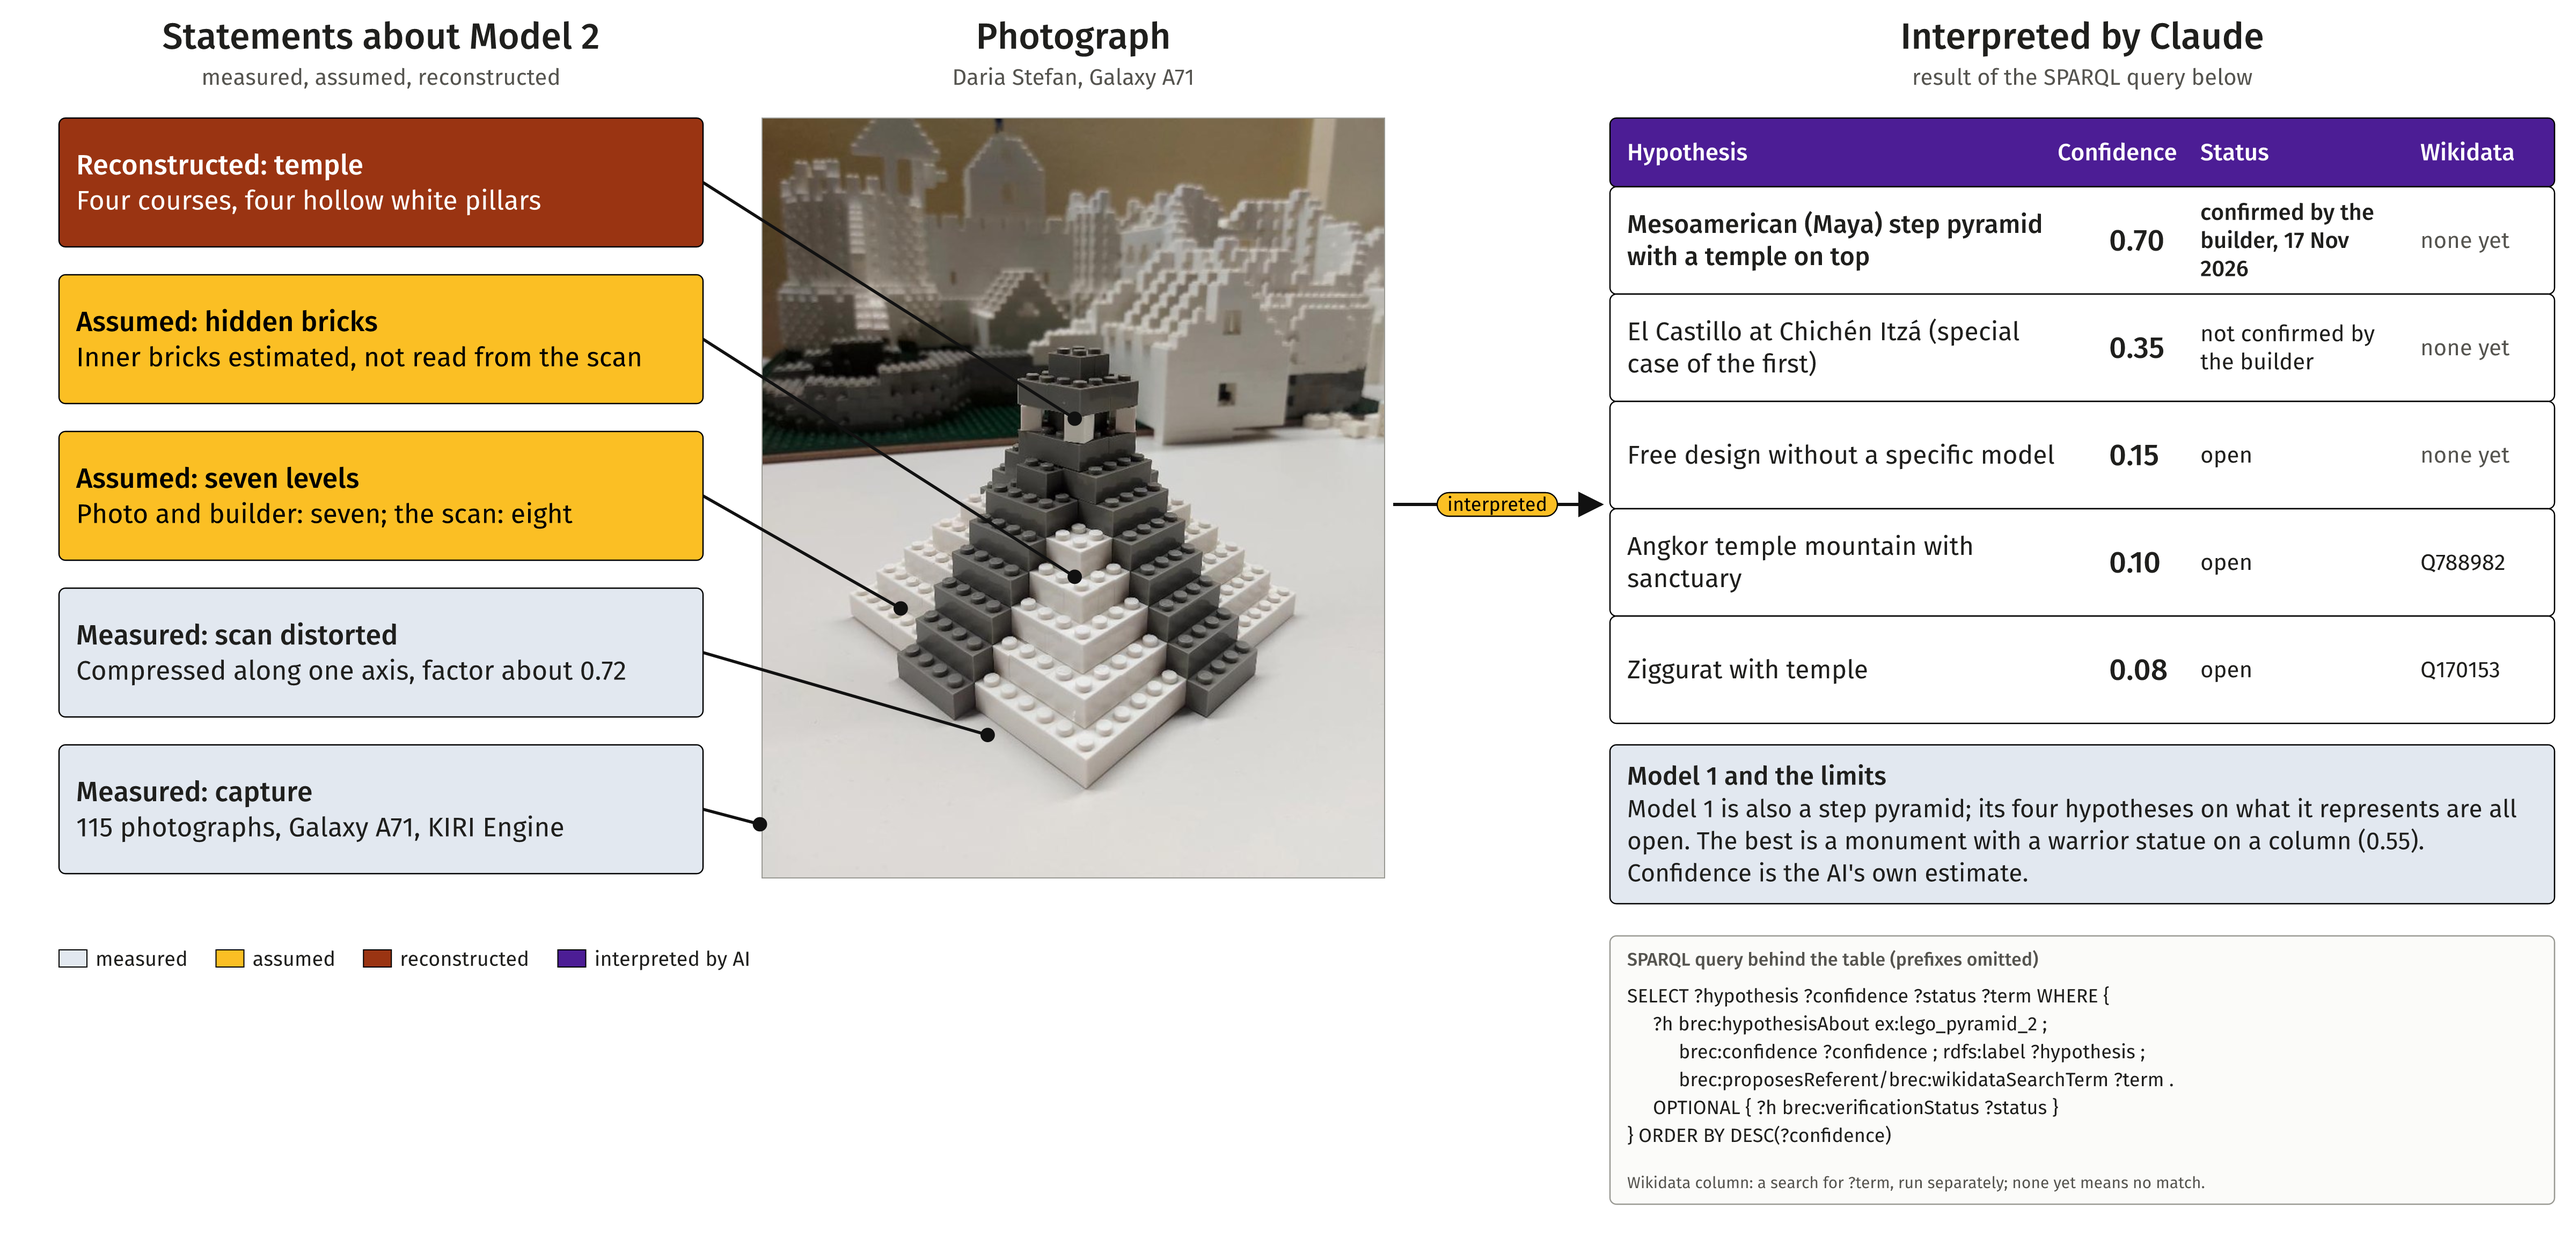
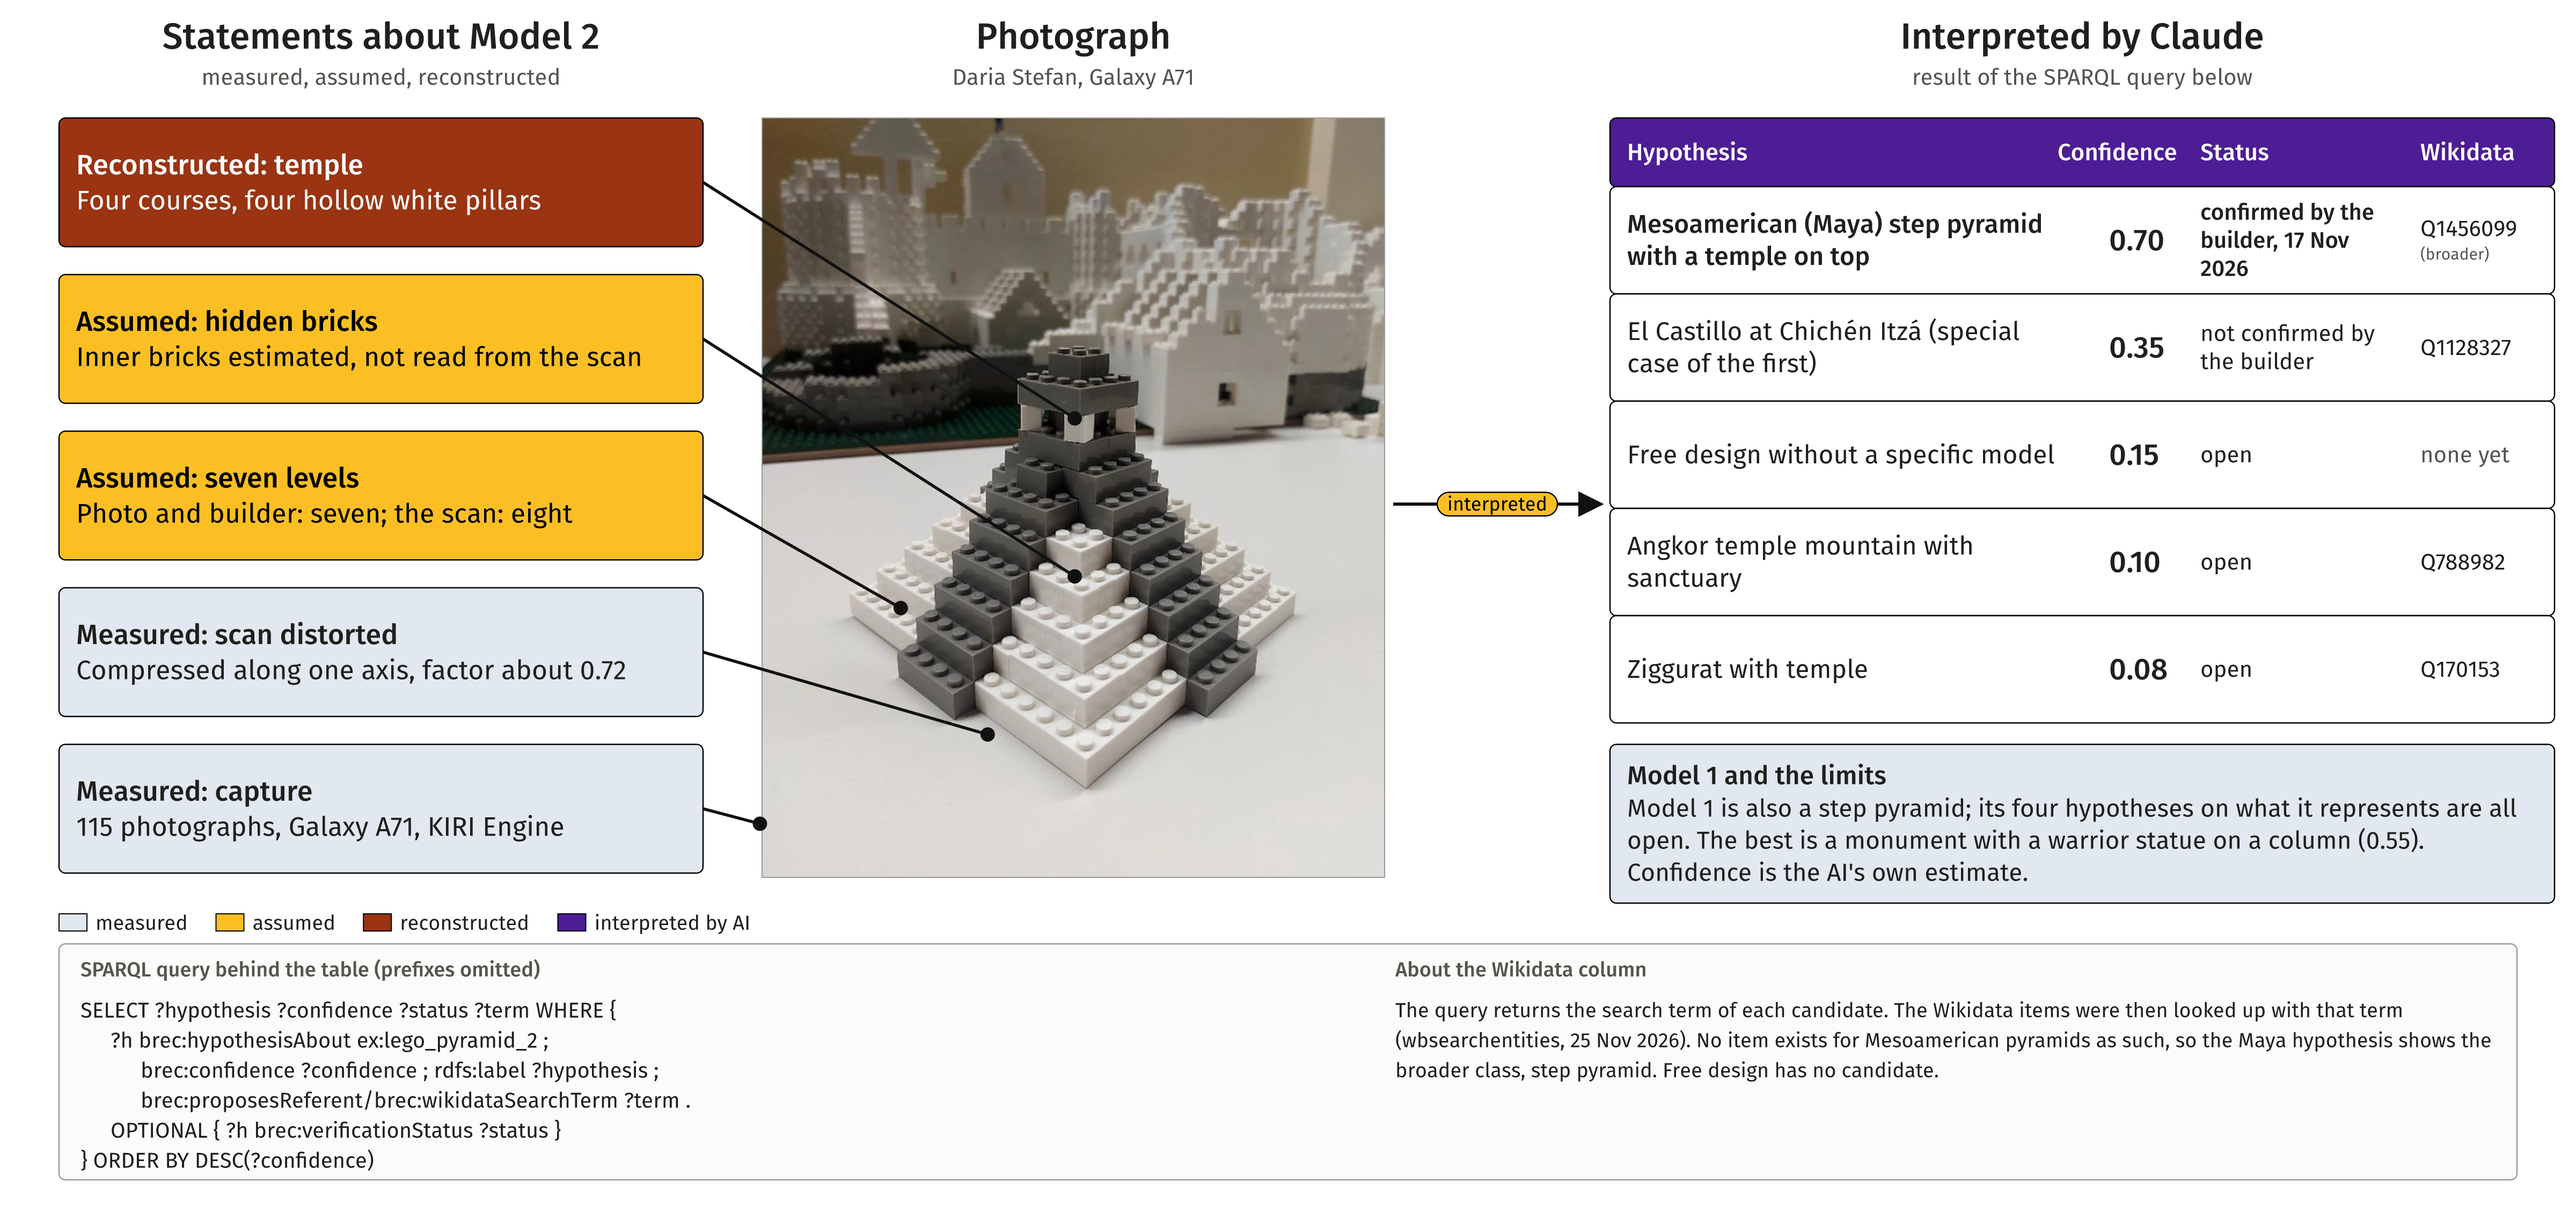
Poster Fig. 3: Wikidata items for the hypotheses and the query as a strip below the figure
Q1128327 for El Castillo, Q1456099 (broader step pyramid) for the Maya hypothesis, Q788982 and Q170153 as before; free design has no candidate.

Claude-Session: https://claude.ai/code/session_0145BdeBMFFGobmaZDy6Deu8

diff --git a/dh2027/brec_poster/figures.py b/dh2027/brec_poster/figures.py
@@ -217,7 +217,7 @@ def fig2():
 
 # ---------------------------------------------------------------- Fig. 3: Model 2
 def fig3():
-    W, H = 2400, 1160
+    W, H = 2400, 1130
     svg = Svg(W, H)
     P0, PY, PWD, PHT = 710, 110, 580, 708
     LW = 600
@@ -244,8 +244,8 @@ def fig3():
         svg.block(55, y, LW, 120, [line], fill, head=head, size=26, pad=16)
         svg.arrow([(55 + LW, y + 60), (target[0] - 2, target[1])], head=False, dot=True, sw=2.8)
 
-    rows = [("Mesoamerican (Maya) step pyramid with a temple on top", "0.70", "confirmed by the builder, 17 Nov 2026", "none yet"),
-            ("El Castillo at Chichén Itzá (special case of the first)", "0.35", "not confirmed by the builder", "none yet"),
+    rows = [("Mesoamerican (Maya) step pyramid with a temple on top", "0.70", "confirmed by the builder, 17 Nov 2026", "Q1456099|(broader)"),
+            ("El Castillo at Chichén Itzá (special case of the first)", "0.35", "not confirmed by the builder", "Q1128327"),
             ("Free design without a specific model", "0.15", "open", "none yet"),
             ("Angkor temple mountain with sanctuary", "0.10", "open", "Q788982"),
             ("Ziggurat with temple", "0.08", "open", "Q170153")]
@@ -266,7 +266,12 @@ def fig3():
         mtext(cx[0], cy, wrap(h, 24, 420, i == 0), 24, i == 0, maxw=430)
         mtext(cx[1] + 20, cy, [c], 28, True, maxw=90)
         mtext(cx[2], cy, wrap(st, 21, 190, i == 0), 21, i == 0, maxw=200)
-        mtext(cx[3], cy, [w], 21, False, MUTED if w == "none yet" else INK, maxw=100)
+        ws = w.split("|")
+        if len(ws) > 1:
+            svg.text(cx[3], cy - 11, ws[0], 21, False, INK, maxw=110)
+            svg.text(cx[3], cy + 13, ws[1], 15, False, MUTED, maxw=110)
+        else:
+            svg.text(cx[3], cy, w, 21, False, MUTED if w == "none yet" else INK, maxw=110)
     my = 110 + HH + 5 * RH + 20
     svg.block(TX, my, TW_, 842 - my, ["Model 1 is also a step pyramid; its four hypotheses on what it represents are all open. "
                                       "The best is a monument with a warrior statue on a column (0.55). Confidence is the AI's own estimate."],
@@ -274,9 +279,9 @@ def fig3():
     a, b = (P0 + PWD + 8, 470), (TX - 8, 470)
     svg.arrow([a, b], sw=3)
     svg.chip((a[0] + b[0]) / 2, 470, "interpreted", 18)
-    qy, qh = 872, 250
-    svg.rect(TX, qy, TW_, qh, "#fbfbf9", stroke="#9a9a94", name="query")
-    svg.text(TX + 16, qy + 22, "SPARQL query behind the table (prefixes omitted)", 17, True, MUTED, maxw=TW_ - 32)
+    qy, qh = 880, 220
+    svg.rect(55, qy, W - 110, qh, "#fbfbf9", stroke="#9a9a94", name="query")
+    svg.text(75, qy + 24, "SPARQL query behind the table (prefixes omitted)", 19, True, MUTED, maxw=1100)
     code = [(0, "SELECT ?hypothesis ?confidence ?status ?term WHERE {"),
             (1, "?h brec:hypothesisAbout ex:lego_pyramid_2 ;"),
             (2, "brec:confidence ?confidence ; rdfs:label ?hypothesis ;"),
@@ -284,9 +289,14 @@ def fig3():
             (1, "OPTIONAL { ?h brec:verificationStatus ?status }"),
             (0, "} ORDER BY DESC(?confidence)")]
     for j, (ind, t) in enumerate(code):
-        svg.text(TX + 16 + ind * 24, qy + 56 + j * 26, t, 18, False, INK, maxw=TW_ - 40 - ind * 24)
-    svg.text(TX + 16, qy + qh - 20, "Wikidata column: a search for ?term, run separately; none yet means no match.", 15, False, MUTED, maxw=TW_ - 32)
-    svg.legend([(GREY, "measured"), (AMBER, "assumed"), (ORANGE, "reconstructed"), (PURPLE, "interpreted by AI")], 55, 885, 19)
+        svg.text(75 + ind * 28, qy + 62 + j * 28, t, 20, False, INK, maxw=1100 - ind * 28)
+    nx = 1300
+    svg.text(nx, qy + 24, "About the Wikidata column", 19, True, MUTED, maxw=1000)
+    for j, t in enumerate(wrap("The query returns the search term of each candidate. The Wikidata items were then looked up with that term "
+                               "(wbsearchentities, 25 Nov 2026). No item exists for Mesoamerican pyramids as such, so the Maya hypothesis "
+                               "shows the broader class, step pyramid. Free design has no candidate.", 19, 1030)):
+        svg.text(nx, qy + 62 + j * 28, t, 19, False, INK, maxw=1040)
+    svg.legend([(GREY, "measured"), (AMBER, "assumed"), (ORANGE, "reconstructed"), (PURPLE, "interpreted by AI")], 55, 852, 19)
     save(svg, "fig3_model2")
 
 
